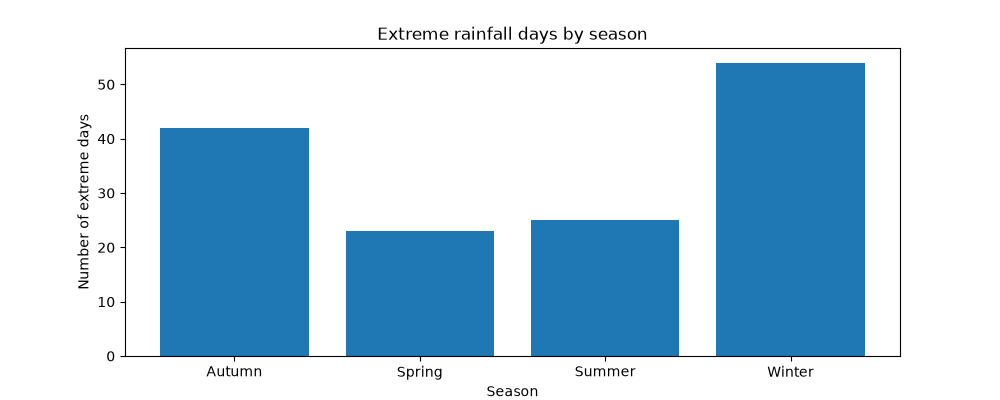
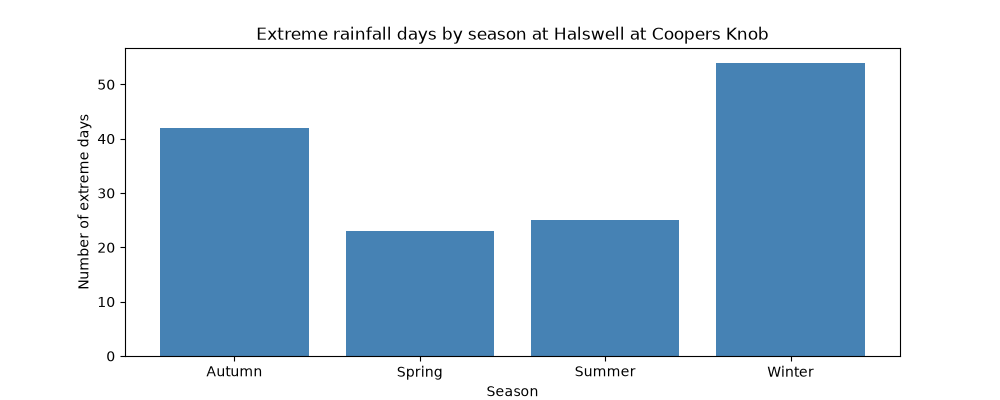
Wx station analysis on FENZ and NIWA

diff --git a/grace_wx_station_analysis.py b/grace_wx_station_analysis.py
@@ -3,7 +3,7 @@ import numpy as np
 import matplotlib.pyplot as plt
 from scipy import stats
 
-station_name = "Halswell at Coopers Knob"
+station_name = "Christchurch Gardens"
 
 
 ## 1. Load Station metadata
@@ -11,7 +11,7 @@ metadata = pd.read_csv("datasets/station_metadata.csv")
 
 station_info = metadata[
     (metadata["station_name"] == station_name) &
-    (metadata["provider"] == "ECAN")
+    (metadata["provider"] == "NIWA")
 ].iloc[0]
 
 file_path = "datasets/" + station_info["source_file"]
@@ -19,20 +19,21 @@ file_path = "datasets/" + station_info["source_file"]
 
 ## 2. Load dataset
 rain = pd.read_csv(file_path)
-rain["time"] = pd.to_datetime(rain["time"])
+rain["Observation time UTC"] = pd.to_datetime(rain["Observation time UTC"])
 
 # How much data do we have, and over what time period?
 print("Station                :", station_name)
-print("DateTime column type   :", rain["time"].dtype)
+print("DateTime column type   :", rain["Observation time UTC"].dtype)
 print("Number of observations :", len(rain))
-print("First observation      :", rain["time"].min().date())
-print("Last observation       :", rain["time"].max().date())
+print("First observation      :", rain["Observation time UTC"].min().date())
+print("Last observation       :", rain["Observation time UTC"].max().date())
+
 
 ## 3. Select station data
-coopers = rain.copy()
+df = rain.copy()
 
-# Add a "year" column — we'll use it later to look at trends over time.
-coopers["year"] = coopers["time"].dt.year
+# Add a "year" column — we'll use it later to look at trends over Observation time UTC.
+df["year"] = df["Observation time UTC"].dt.year
 
 
 ## 4. Plot hourly rainfall
@@ -41,27 +42,27 @@ coopers["year"] = coopers["time"].dt.year
 plt.figure(figsize=(10, 4))
 
 plt.plot(
-    coopers["time"],
-    coopers["precipitation"]
+    df["Observation time UTC"],
+    df["Rainfall [mm]"]
 )
 
-plt.title("Hourly rainfall at Halswell at Coopers Knob")
+plt.title(f"Hourly rainfall at {station_name}")
 plt.xlabel("Year")
 plt.ylabel("Rainfall (mm)")
 
-plt.savefig("outputs/ECAN_coopers/coopers_timeseries.png")
+plt.savefig("outputs/NIWA_chch_gardens/chch_gardens_timeseries.png")
 plt.show()
 plt.close()
 
 
 ## 5. Calculate daily rainfall
 
-coopers["date"] = coopers["time"].dt.date
+df["date"] = df["Observation time UTC"].dt.date
 
 # create daily rainfall totals
 daily = (
-    coopers
-    .groupby("date")["precipitation"]
+    df
+    .groupby("date")["Rainfall [mm]"]
     .sum()
     .reset_index()
 )
@@ -74,7 +75,7 @@ daily["month"] = daily["date"].dt.month
 
 annual_rainfall = (
     daily
-    .groupby("year")["precipitation"]
+    .groupby("year")["Rainfall [mm]"]
     .sum()
 )
 
@@ -85,14 +86,12 @@ plt.plot(
     annual_rainfall.values
 )
 
-plt.title("Annual rainfall at Halswell at Coopers Knob")
+plt.title(f"Annual rainfall at {station_name}")
 plt.xlabel("Year")
 plt.ylabel("Annual rainfall (mm)")
 plt.grid(True)
 
-plt.savefig(
-    "outputs/ECAN_coopers/coopers_annual_rainfall.png"
-)
+plt.savefig("outputs/NIWA_chch_gardens/chch_gardens_annual_rainfall.png")
 
 plt.show()
 plt.close()
@@ -101,7 +100,7 @@ plt.close()
 ## 7. Find exteme rainfall days
 
 # Keeping only the days where it actually rained (1mm or more).
-rainy_days = daily[daily["precipitation"] >= 1.0]["precipitation"]
+rainy_days = daily[daily["Rainfall [mm]"] >= 1.0]["Rainfall [mm]"]
 
 # The cut-off ("threshold") is the 95th percentile of those rainy days 
 threshold = np.percentile(rainy_days, 95)
@@ -111,17 +110,17 @@ print(f"Our 'extreme' cut-off is {threshold:.1f} mm.")
 print(f"So any day with more than {threshold:.1f} mm of rain counts as extreme.")
 
 # Pull out the extreme days - the ones above our cut-off.
-extreme = daily[daily["precipitation"] > threshold]
+extreme = daily[daily["Rainfall [mm]"] > threshold]
 
 print(f"We found {len(extreme)} extreme days out of {len(daily)} total days.")
-extreme[["date", "precipitation"]].head()
+extreme[["date", "Rainfall [mm]"]].head()
 
 
 ## 8. Plot extreme rainfall days
 plt.figure(figsize=(10, 4))
 
 plt.hist(
-    extreme["precipitation"],
+    extreme["Rainfall [mm]"],
     bins=20,
     color="tomato",
     edgecolor="white"
@@ -131,7 +130,7 @@ plt.title("How big were the extreme rainfall days?")
 plt.xlabel("Rainfall (mm)")
 plt.ylabel("Number of days")
 
-plt.savefig("outputs/ECAN_coopers/coopers_extreme_histogram.png")
+plt.savefig("outputs/NIWA_chch_gardens/chch_gardens_extreme_histogram.png")
 plt.show()
 plt.close()
 # Most extreme days are just above the cut-off, and a few are MUCH bigger.
@@ -141,7 +140,7 @@ plt.close()
 
 # We fit the curve to how far each extreme day is ABOVE the cut-off.
 # (This "amount above the cut-off" is what the GPD describes.)
-amount_above = extreme["precipitation"] - threshold
+amount_above = extreme["Rainfall [mm]"] - threshold
 
 # scipy fits the curve and gives us the shape and scale numbers.
 # (floc=0 just tells it to measure from the cut-off, which is what we want.)
@@ -173,13 +172,13 @@ plt.xlabel("Rainfall above the cut-off (mm)")
 plt.ylabel("How common")
 plt.legend()
 
-plt.savefig("outputs/ECAN_coopers/coopers_real_extreme_hours.png")
+plt.savefig("outputs/NIWA_chch_gardens/chch_gardens_real_extreme_hours.png")
 plt.show()
 plt.close()
 
 ## 10. Calculating extreme days per year
 
-n_years = coopers["year"].nunique()
+n_years = df["year"].nunique()
 events_per_year = len(extreme) / n_years
 print(f"On average, {events_per_year:.1f} extreme days per year.\n")
 
@@ -208,7 +207,7 @@ plt.xlabel("Year")
 plt.ylabel("Number of extreme days")
 plt.legend()
 
-plt.savefig("outputs/ECAN_coopers/coopers_extreme_days_each_year.png")
+plt.savefig("outputs/NIWA_chch_gardens/chch_gardens_extreme_days_each_year.png")
 plt.show()  
 plt.close()
 
@@ -230,11 +229,11 @@ daily["season"] = daily["month"].map({
   11: "Spring"
 })
 
-extreme = daily[daily["precipitation"] > threshold].copy()
+extreme = daily[daily["Rainfall [mm]"] > threshold].copy()
 
 seasonal_rainfall = (
     daily
-    .groupby("season")["precipitation"]
+    .groupby("season")["Rainfall [mm]"]
     .mean()
 )
 
@@ -259,11 +258,11 @@ plt.figure(figsize=(10, 4))
 
 plt.bar(seasonal_rainfall.index,seasonal_rainfall.values,color="steelblue")
 
-plt.title("Average daily rainfall by season")
+plt.title(f"Average daily rainfall by season at {station_name}")
 plt.xlabel("Season")
 plt.ylabel("Average daily rainfall (mm)")
 
-plt.savefig("outputs/ECAN_coopers/coopers_seasonal_rainfall.png")
+plt.savefig("outputs/NIWA_chch_gardens/chch_gardens_seasonal_rainfall.png")
 plt.show()
 plt.close()
 
@@ -274,11 +273,11 @@ plt.figure(figsize=(10, 4))
 plt.bar(extreme_seasonal_rainfall.index,extreme_seasonal_rainfall.values,
         color="steelblue")
 
-plt.title("Extreme rainfall days by season")
+plt.title(f"Extreme rainfall days by season at {station_name}")
 plt.xlabel("Season")
 plt.ylabel("Number of extreme days")
 
-plt.savefig("outputs/ECAN_coopers/coopers_extreme_days_by_season.png")
+plt.savefig("outputs/NIWA_chch_gardens/chch_gardens_extreme_days_by_season.png")
 plt.show()
 plt.close()
 
